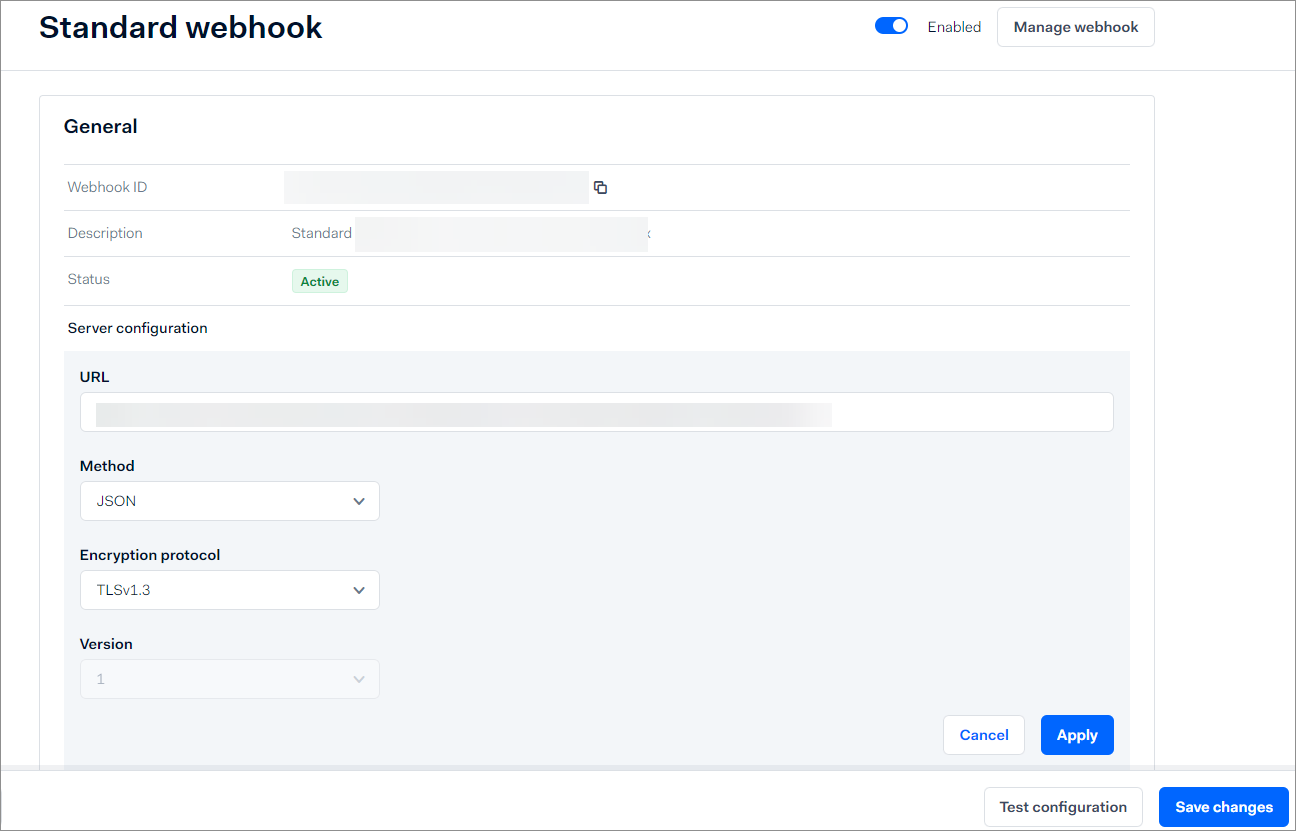
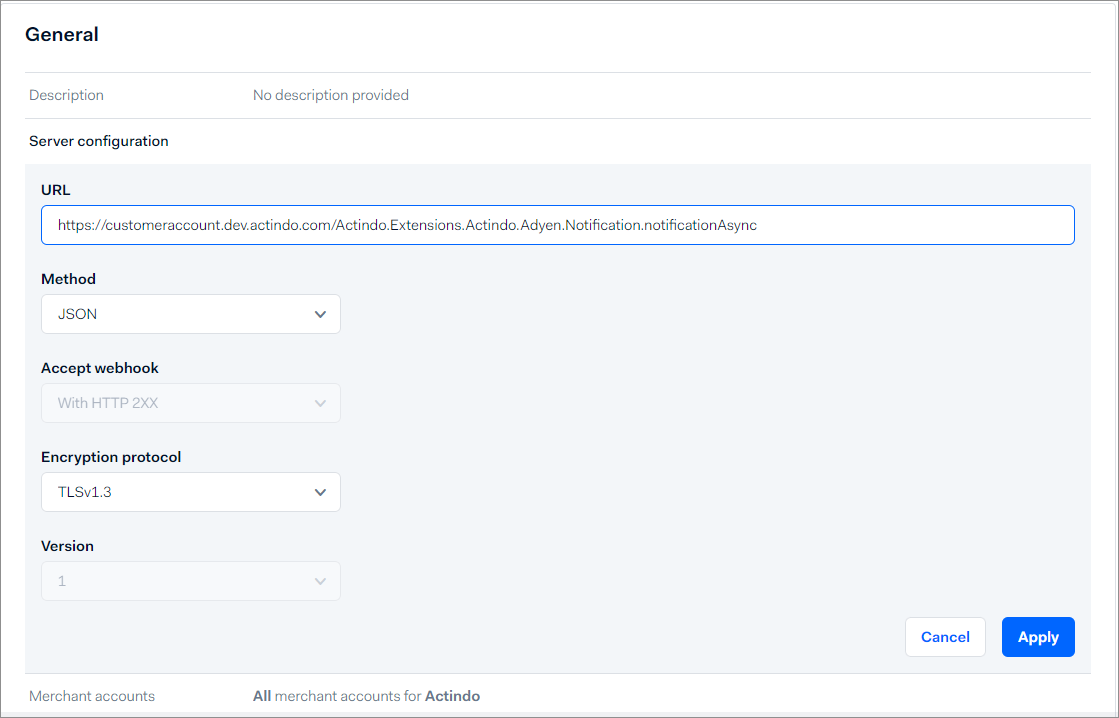
ACD-894

diff --git a/Adyen/Integration/01_ManageAdyenSettings.md b/Adyen/Integration/01_ManageAdyenSettings.md
@@ -54,6 +54,9 @@ Create a webhook to receive payment notifications from Adyen&trade; to the *Paym
          - *Method*   
             You can use the **JSON** standard setting if you have no other requirements.
 
+        - *Accept webhook*   
+            Adyen&trade; requires you to acknowledge every webhook event with a successful HTTP response status code, for example 200. You can use the standard setting. For detailed information, see [Accept webhooks](https://docs.adyen.com/issuing/webhooks/#accept-webhooks "https://docs.adyen.com/issuing/webhooks/#accept-webhooks") in the Adyen&trade; documentation.
+
         - *Encryption protocol*     
            You can use the **TLSv1.3** standard setting if you have no other requirements.
 
@@ -169,49 +172,47 @@ You must generate a web service API key for both the test environment and the li
  
      ![Payment user](../../Assets/Screenshots/Adyen/Integration/AdyenWebServiceUser.png "[Payment user]")
 
-4. Return to your Adyen&trade; account.
-
-5. Enter a description for the web service user in the *Description* field.
+4. Return to your Adyen&trade; account and enter a description for the web service user in the *Description* field.
 
     ![Create API credential](../../Assets/Screenshots/Adyen/Integration/AdyenCreateAPIcredential.png "[Create API credential]")
 
-6. Click the [Create credential] button.   
+5. Click the [Create credential] button.   
     The *Configure API credential* view is displayed. The API key tab is displayed by default.
 
-7. Generate the *Web service* API key and enter it in Actindo. To do this, follow these steps:
+6. Generate the *Web service* API key and enter it in Actindo. To do this, follow these steps:
 
-    - Click the *API key* tab in the *Server settings > Authentication* section. 
+    1. Click the *API key* tab in the *Server settings > Authentication* section. 
 
-    - Click the [Generate API key] button, if you want to generate a new key.    
+    2. Click the [Generate API key] button, if you want to generate a new key.    
       The API key is automatically generated.
 
         ![Generate Checkout API key](../../Assets/Screenshots/Adyen/Integration/AdyenAuthentication.png "[Generate Checkout API key]")
     
-    - Click the *Copy API key* button.
+    3. Click the *Copy API key* button.
 
-    - Change to your Actindo instance and insert the API key in the *Checkout API key* field. 
+    4. Change to your Actindo instance and insert the API key in the *Checkout API key* field. 
 
         ![Checkout API key](../../Assets/Screenshots/Adyen/Integration/AdyenCheckoutAPIkey.png "[Checkout API key]")
 
-8. Return to your Adyen&trade; account and generate the *Web service* API password and enter it in Actindo. To do this, follow these steps:
+7. Return to your Adyen&trade; account and generate the *Web service* API password and enter it in Actindo. To do this, follow these steps:
 
-    - Click the *Basic auth* tab and click the [Generate password] button, is you want to generate a new password.   
+    1. Click the *Basic auth* tab and click the [Generate password] button, is you want to generate a new password.   
       The password is automatically created.
 
         ![Web service password](../../Assets/Screenshots/Adyen/Integration/AdyenWebServicePassword.png "[Web service password]")
     
-    - Click the *Copy password* button. 
+    2. Click the *Copy password* button. 
 
-    - Change to your Actindo instance and insert the password in the *Payment password* field.
+    3. Change to your Actindo instance and insert the password in the *Payment password* field.
 
        ![Payment password](../../Assets/Screenshots/Adyen/Integration/AdyenPaymentPassword.png "[Payment password]")
 
-9. Return to Adyen&trade; and click the [Save changes] button in the bottom right corner.   
+8. Return to Adyen&trade; and click the [Save changes] button in the bottom right corner.   
     The credentials for the *Web service* API are applied.
 
-10. If necessary, configure your wallet payment methods in the *Wallet payment methods* section. Refer to the Adyen&trade; documentation. 
+9. If necessary, configure your wallet payment methods in the *Wallet payment methods* section. Refer to the Adyen&trade; documentation. 
 
-11. If necessary, assign roles to define the permissions of the API credentials in the *Permissions > Roles* section. For detailed information, see [API permissions](https://docs.adyen.com/development-resources/api-credentials/#api-permissions "[https://docs.adyen.com/development-resources/api-credentials/#api-permissions]") in the Adyen&trade; documentation.
+10. If necessary, assign roles to define the permissions of the API credentials in the *Permissions > Roles* section. For detailed information, see [API permissions](https://docs.adyen.com/development-resources/api-credentials/#api-permissions "[https://docs.adyen.com/development-resources/api-credentials/#api-permissions]") in the Adyen&trade; documentation.
 
 
 
@@ -240,7 +241,7 @@ You must generate a report service API key for both the test environment and the
        
     ![Create API credential](../../Assets/Screenshots/Adyen/Integration/AdyenCreateAPIcredential.png "[Create API credential]")
    
-  2. Select the *Report service user* credential type.   
+2. Select the *Report service user* credential type.   
    The username is automatically created by the system.
 
        ![Create report service credentials](../../Assets/Screenshots/Adyen/Integration/AdyenReportServiceAPIcredential.png "[Create report service credentials]")
@@ -251,43 +252,41 @@ You must generate a report service API key for both the test environment and the
   
    ![Report username](../../Assets/Screenshots/Adyen/Integration/AdyenReportUser.png "[Report username]")
 
-5. Return to your Adyen&trade; account. 
-
-6. Enter a description for the report service user in the *Description* field.
+5. Return to your Adyen&trade; account and enter a description for the report service user in the *Description* field.
 
     ![Create report service credentials](../../Assets/Screenshots/Adyen/Integration/AdyenReportServiceAPIcredential.png "[Create report service credentials]")
 
-7. Click the [Create credential] button.   
+6. Click the [Create credential] button.   
     The *Configure API credential* view is displayed. The API key tab is displayed by default.
 
-8. Generate the *Report service* API key and password. To do this, follow these steps:
+7. Generate the *Report service* API key and password. To do this, follow these steps:
 
-    - Click the *API key* tab in the *Server settings > Authentication* section.
+    1. Click the *API key* tab in the *Server settings > Authentication* section.
     
-    - Click the [Generate API key] button, if you want to generate a new key.    
+    2. Click the [Generate API key] button, if you want to generate a new key.    
         The API key is automatically applied.  
         
         ![Configure API credentials](../../Assets/Screenshots/Adyen/Integration/AdyenAuthentication.png "[Configure API credentials]")
 
         > [Info] You do not need to enter the report API key in your *Payments* connection settings. For the *Payments* module, the report name and password are sufficient.
 
-    - Click the *Basic auth* tab in the *Server settings > Authentication* section.
+    3. Click the *Basic auth* tab in the *Server settings > Authentication* section.
    
-    - Click the [Generate password] button, if you want to generate a new password.   
+    4. Click the [Generate password] button, if you want to generate a new password.   
       The password is automatically created.
    
        ![Report service password](../../Assets/Screenshots/Adyen/Integration/AdyenWebServicePassword.png "[Report service password]")
 
-    - Click the *Copy password* button.
+    5. Click the *Copy password* button.
 
-9. Change to your Actindo instance and insert the password in the *Report password* field. 
+8. Change to your Actindo instance and insert the password in the *Report password* field. 
 
    ![Report service password](../../Assets/Screenshots/Adyen/Integration/AdyenReportServicePassword.png "[Report service password]")
 
-10. Return to your Adyen&trade; account and click the [Save changes] button in the bottom right corner.   
+9. Return to your Adyen&trade; account and click the [Save changes] button in the bottom right corner.   
     The credentials for the *Report service* API are applied.
 
-11. If necessary, assign the required report role to allow the technical user to download reports in the *Permissions > Roles > REPORT* section. For detailed information, see [API permissions](https://docs.adyen.com/development-resources/api-credentials/#api-permissions "[https://docs.adyen.com/development-resources/api-credentials/#api-permissions]") in the Adyen&trade; documentation.
+10. If necessary, assign the required report role to allow the technical user to download reports in the *Permissions > Roles > REPORT* section. For detailed information, see [API permissions](https://docs.adyen.com/development-resources/api-credentials/#api-permissions "[https://docs.adyen.com/development-resources/api-credentials/#api-permissions]") in the Adyen&trade; documentation.
 
 
 
